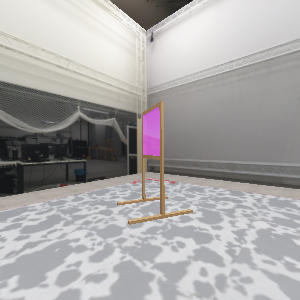
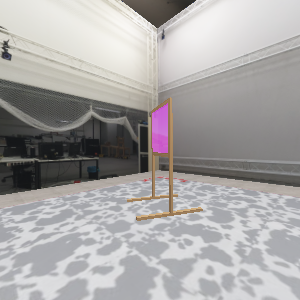
camera_offset_inertial computation change

diff --git a/controllers/main/assignment/my_assignment.py b/controllers/main/assignment/my_assignment.py
@@ -205,10 +205,10 @@ def get_command(sensor_data, camera_data, dt):
                 r_s_vectors[:, images_taken] = R_c2i @ v_vector # Rotate the camera vector to the inertial frame
 
                 cam_offset_body = np.array([X_CAM, Y_CAM, Z_CAM])
-                cam_offset_inertial = R_b2i @ cam_offset_body
+                cam_offset_inertial = R_c2i @ cam_offset_body
                 position = np.array([sensor_data['x_global'], sensor_data['y_global'], sensor_data['z_global']]) + cam_offset_inertial # Position of the camera in the inertial frame
                 p_q_vectors[:, images_taken] = position 
-                print(position)
+                print('Camera position : ', position)
 
                 images_taken += 1
                 print("Image ", images_taken, " taken")
@@ -217,6 +217,7 @@ def get_command(sensor_data, camera_data, dt):
             r_s_vectors[:, 1] = -r_s_vectors[:, 1]            
             p_q_vector = p_q_vectors[:, 1] - p_q_vectors[:, 0] 
             line_coefficients = np.linalg.pinv(r_s_vectors) @ p_q_vector
+            print("Line coefficients: ", line_coefficients)
             f = p_q_vectors[:, 0] + line_coefficients[0] * r_s_vectors[:, 0]
             g = p_q_vectors[:, 1] + line_coefficients[1] * r_s_vectors[:, 1]
             gate_position = (f + g) / 2
